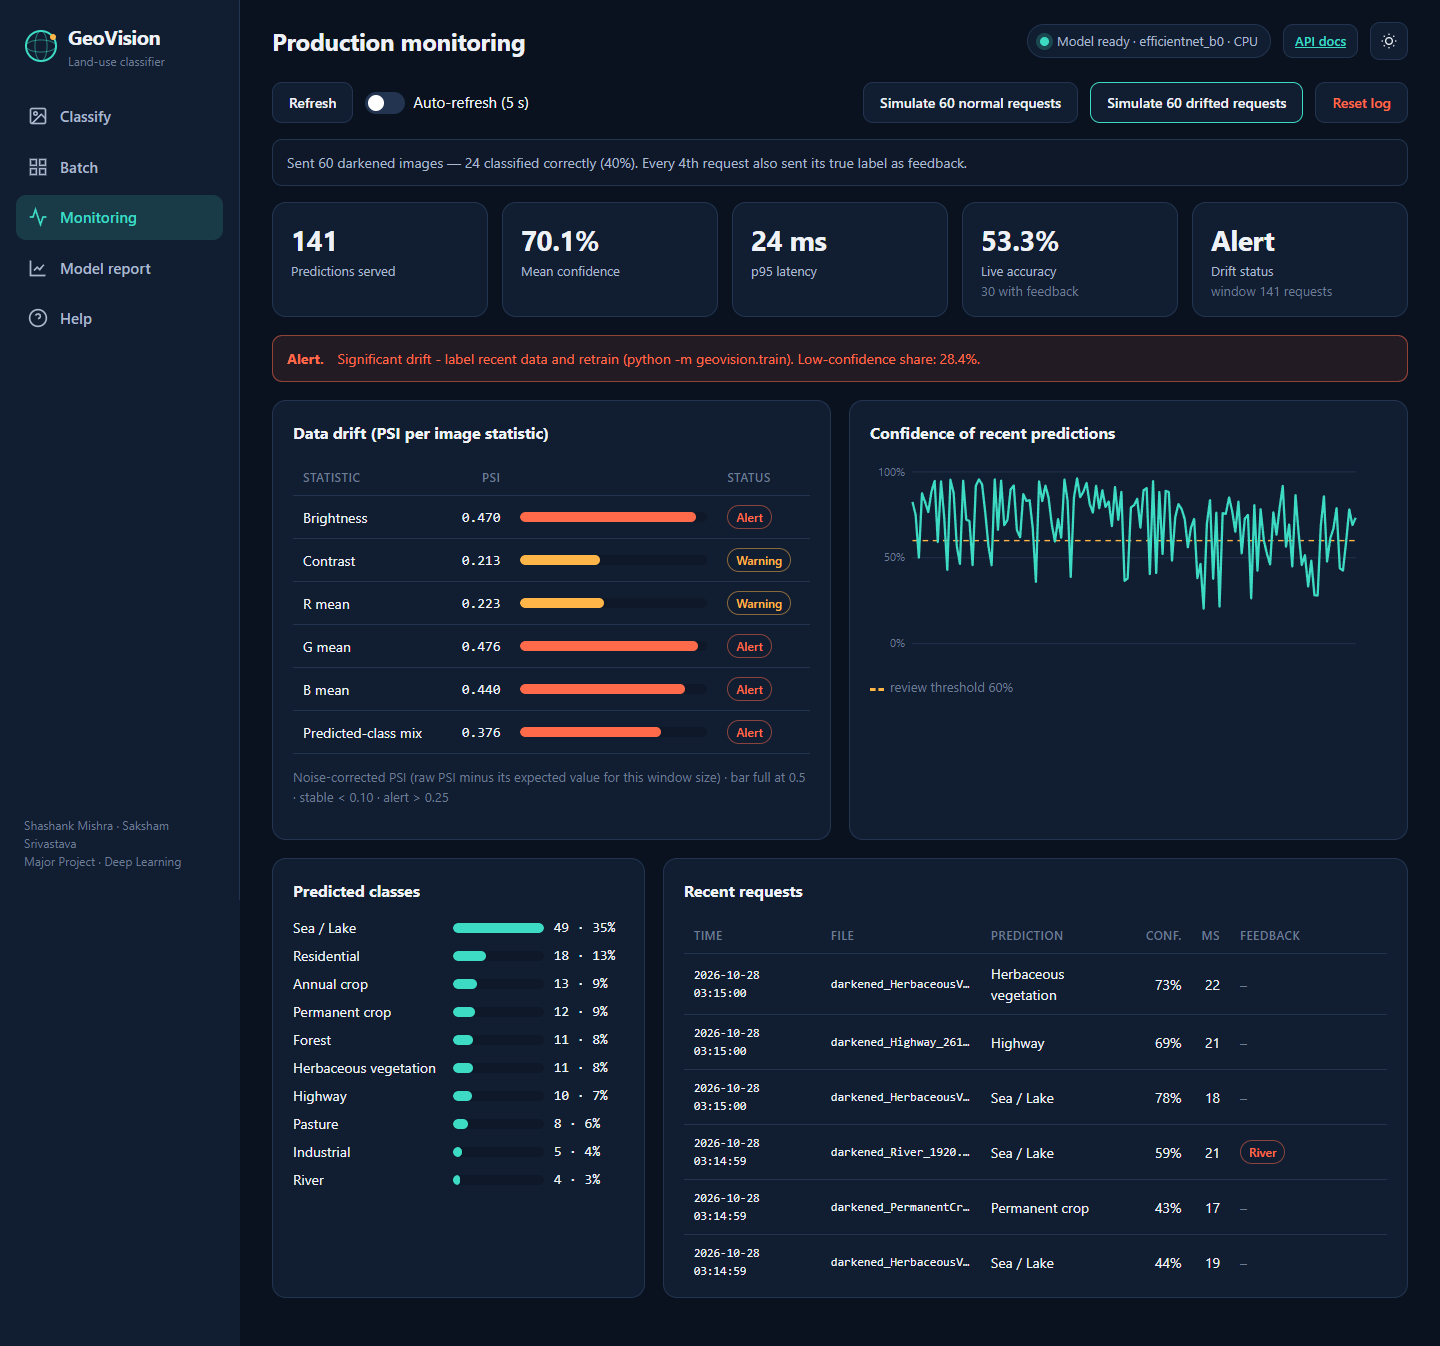
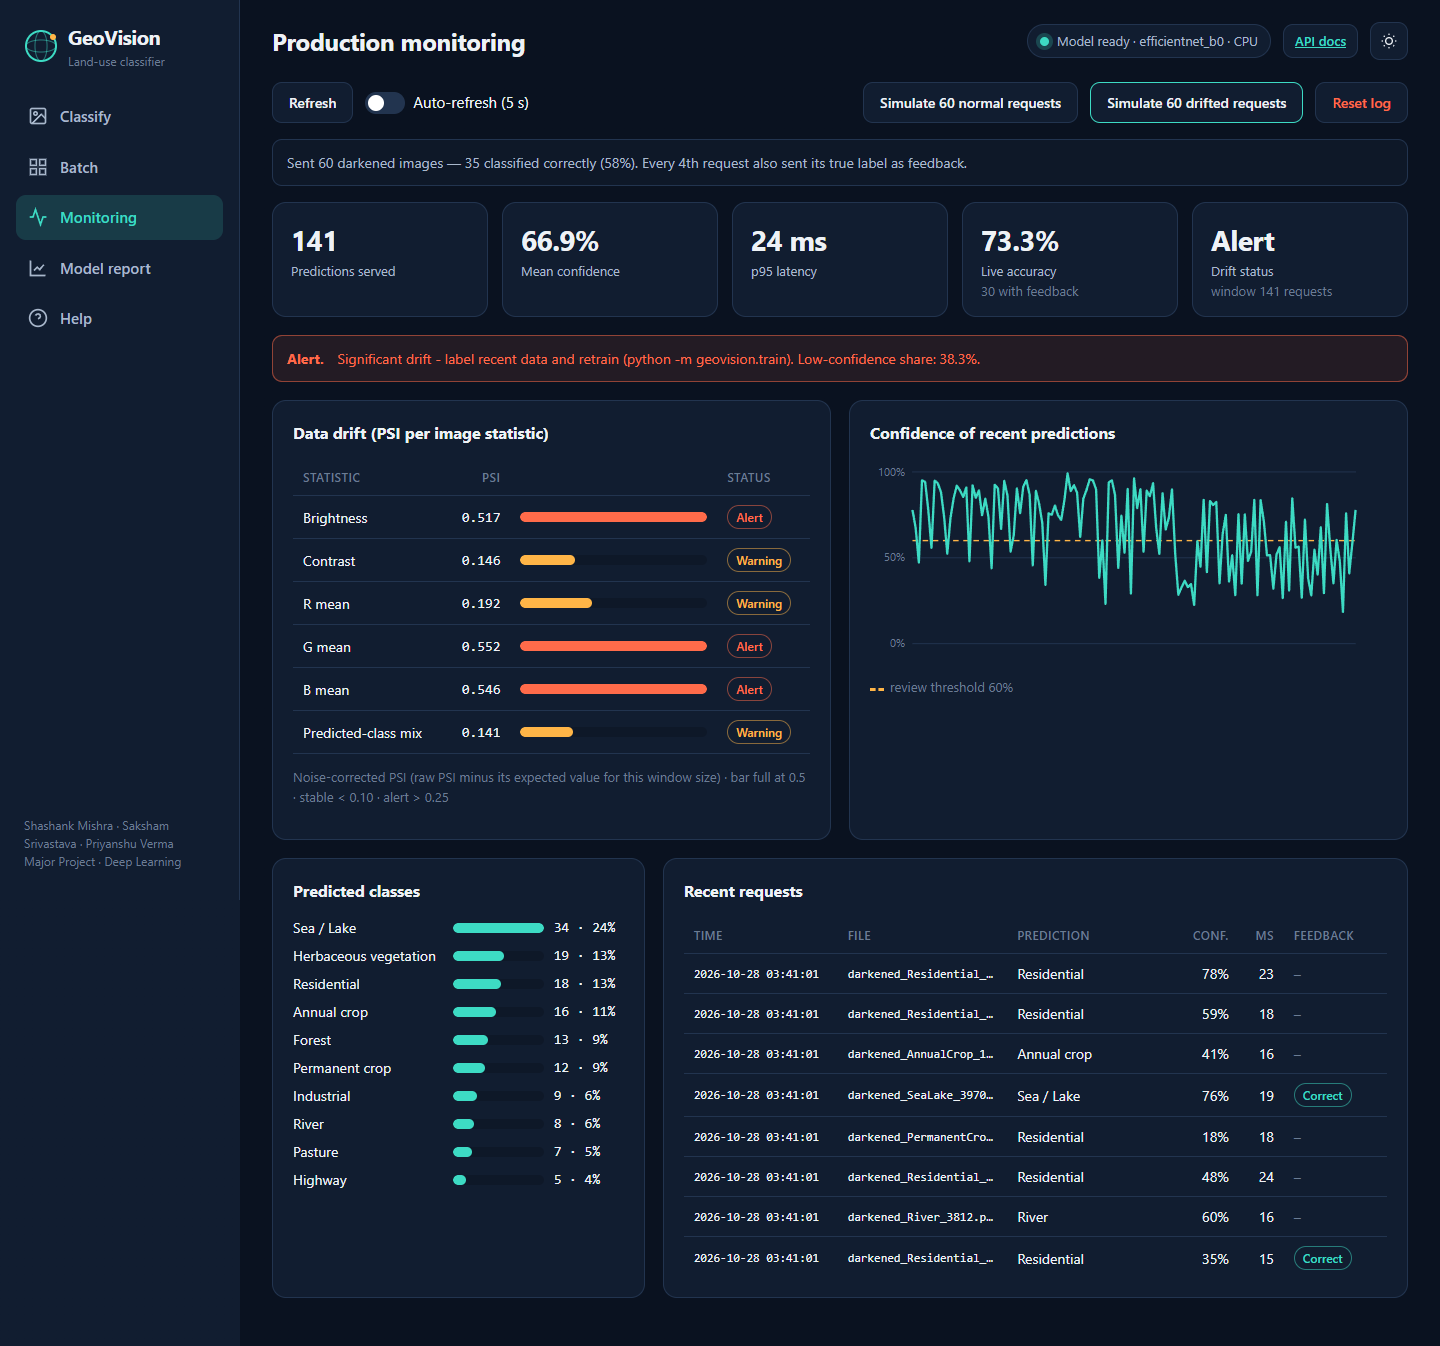
List all three team members in the app, license and screenshots

diff --git a/app/static/index.html b/app/static/index.html
@@ -170,7 +170,7 @@ kbd{font-family:var(--mono);font-size:12px;border:1px solid var(--border);border
     <button class="nav" data-view="model"><svg viewBox="0 0 24 24" fill="none" stroke="currentColor" stroke-width="2"><path d="M3 3v18h18"/><path d="m7 15 4-4 3 3 5-6"/></svg>Model report</button>
     <button class="nav" data-view="help"><svg viewBox="0 0 24 24" fill="none" stroke="currentColor" stroke-width="2"><circle cx="12" cy="12" r="10"/><path d="M9.1 9a3 3 0 0 1 5.8 1c0 2-3 3-3 3"/><path d="M12 17h.01"/></svg>Help</button>
     <div class="spacer"></div>
-    <div class="side-foot">Shashank Mishra · Saksham Srivastava<br>Major Project · Deep Learning</div>
+    <div class="side-foot">Shashank Mishra · Saksham Srivastava · Priyanshu Verma<br>Major Project · Deep Learning</div>
   </nav>
 
   <main class="main">
